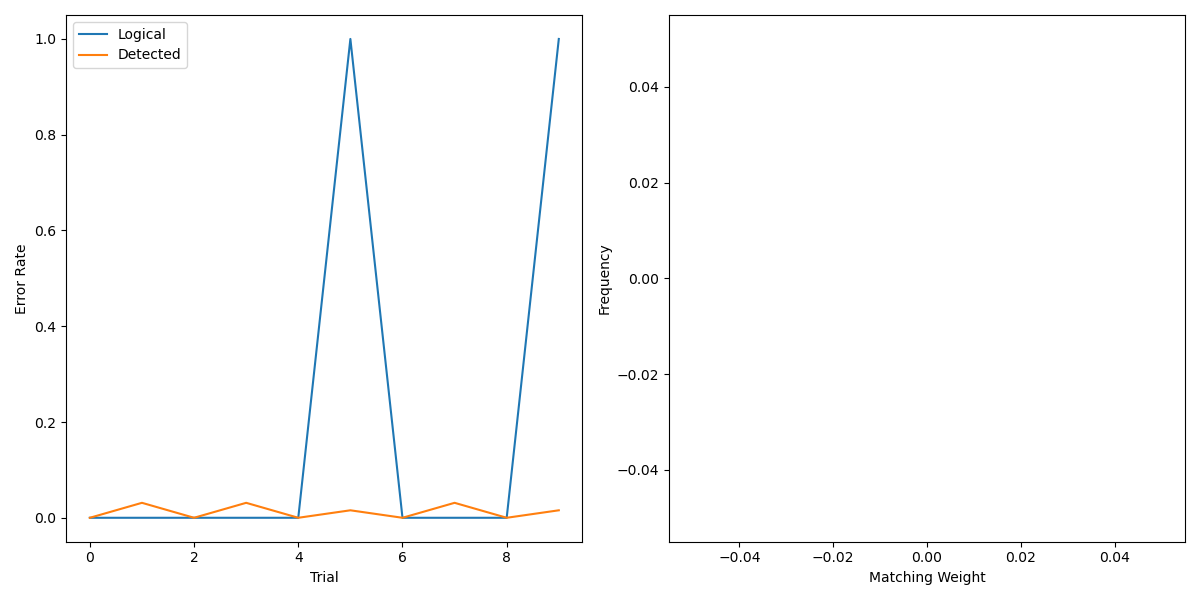
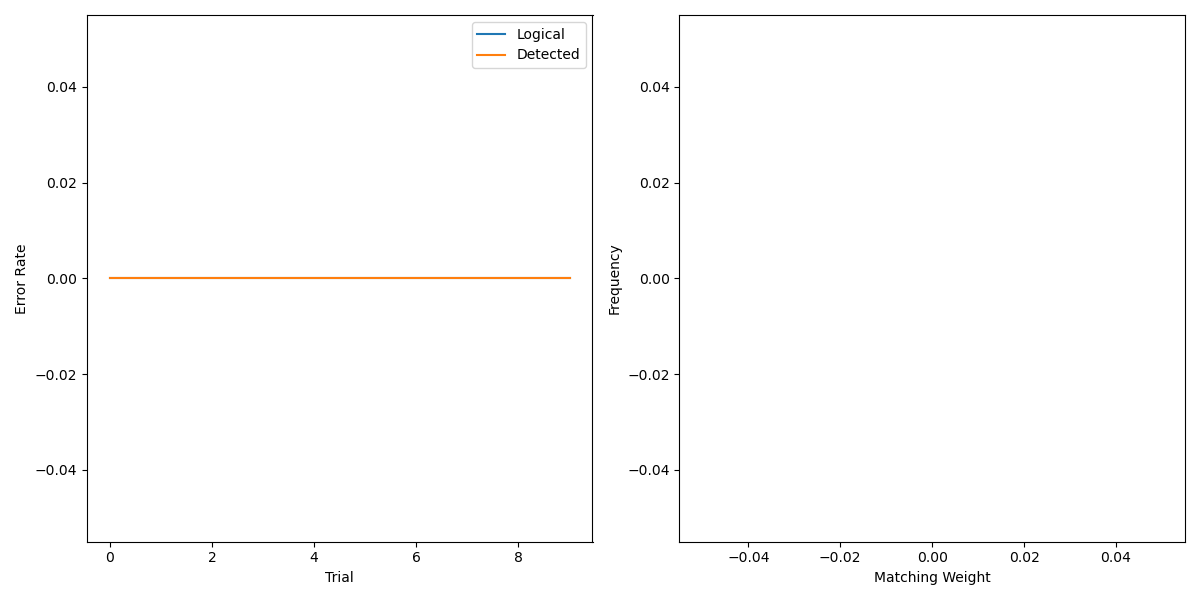
small changes

diff --git a/utils.py b/utils.py
@@ -71,45 +71,17 @@ def run_on_ibm(qc):
     service = QiskitRuntimeService()
 
     backend = service.least_busy(operational=True, simulator=False)
-    pm = generate_preset_pass_manager(target=backend.target, optimization_level=1)
-    # Authenticate with your IBM Quantum token
-    # IBMProvider.save_account(API_KEY)  # Only need to do this once
-    # provider = IBMProvider()
-
-    # Get available backends (quantum computers)
-    # print("Available backends:")
-    # for backend in provider.backends():
-    #     print(f"- {backend.name} ({backend.num_qubits} qubits)")
-    #
-    # # Choose a backend - example using ibmq_qasm_simulator for testing
-    # backend = provider.get_backend('ibm_brisbane')  # Replace with actual device name
-    #
-    # # Transpile for the target backend
-    # print(f"Transpiling for {backend.name}...")
-    # transpiled_qc = transpile(qc, backend=backend, optimization_level=3)
-    #
-    # # Submit job
-    # print(f"Submitting job to {backend.name}...")
-    # job = backend.run(transpiled_qc, shots=1024)
-    #
-    # # Monitor job status
-    # print(f"Job ID: {job.job_id()}")
-    # print("Job status:", job.status())
-
-    # Retrieve results when complete
-    # result = job.result()
-    # counts = result.get_counts()
-
+    pm = generate_preset_pass_manager(target=backend.target, optimization_level=0)
     surface_code = pm.run(qc)
 
     with Session(backend=backend) as session:
         sampler = Sampler(mode=session)
         job = sampler.run([surface_code], shots=1024)
-        pub_result = job.result()[0]
+        pub_result = job.result()
         print(f"Sampler job ID: {job.job_id()}")
-        print(f"Counts: {pub_result.data.cr.get_counts()}")
+        print(f"Counts: {pub_result[0].data.c.get_counts()}")
 
-    return pub_result.data.cr.get_counts()
+    return pub_result[0].data.c.get_counts()
 
 def run_on_simulator(qc):
     # Use AerSimulator for simulation

diff --git a/mine.py b/mine.py
@@ -1,6 +1,5 @@
 from qiskit import QuantumCircuit
 import matplotlib.pyplot as plt
-import networkx as nx
 from dotenv import load_dotenv
 import os
 
@@ -9,15 +8,15 @@ from utils import process_detection_events, build_mwpm_graph, apply_mwpm, inject
 
 load_dotenv()
 API_KEY = os.getenv("IBM_API_KEY")
-SIMULATION = True
-NUM_TRIALS = 10
+SIMULATION = False
+NUM_TRIALS = 1
 stats_history = []
 
 if not SIMULATION: NUM_TRIALS = 1
 
 for trial in range(NUM_TRIALS):
-    grid = 3
-    n_rounds = 2
+    grid = 5
+    n_rounds = 4
 
     if grid % 2 != 1:
         raise ValueError("Grid size must be an odd number")
@@ -42,7 +41,7 @@ for trial in range(NUM_TRIALS):
 
     classical_bits, stabilizer_map = apply_stabilizers(qc, grid, classical_bits, stabilizer_map)
 
-    qc = inject_random_errors(qc, grid, error_prob=0.1)  # After initialization, before stabilizers
+    # qc = inject_random_errors(qc, grid, error_prob=0.1)  # After initialization, before stabilizers
 
     for _ in range(n_rounds - 1):
         classical_bits, stabilizer_map = apply_stabilizers(qc, grid, classical_bits, stabilizer_map)

diff --git a/IBM-Account.py b/IBM-Account.py
@@ -1,0 +1,9 @@
+from qiskit_ibm_runtime import QiskitRuntimeService
+from dotenv import load_dotenv
+import os
+
+
+load_dotenv()
+API_KEY = os.getenv("IBM_API_KEY")
+
+QiskitRuntimeService.save_account(channel="ibm_quantum", token=API_KEY, overwrite=True, set_as_default=True)
